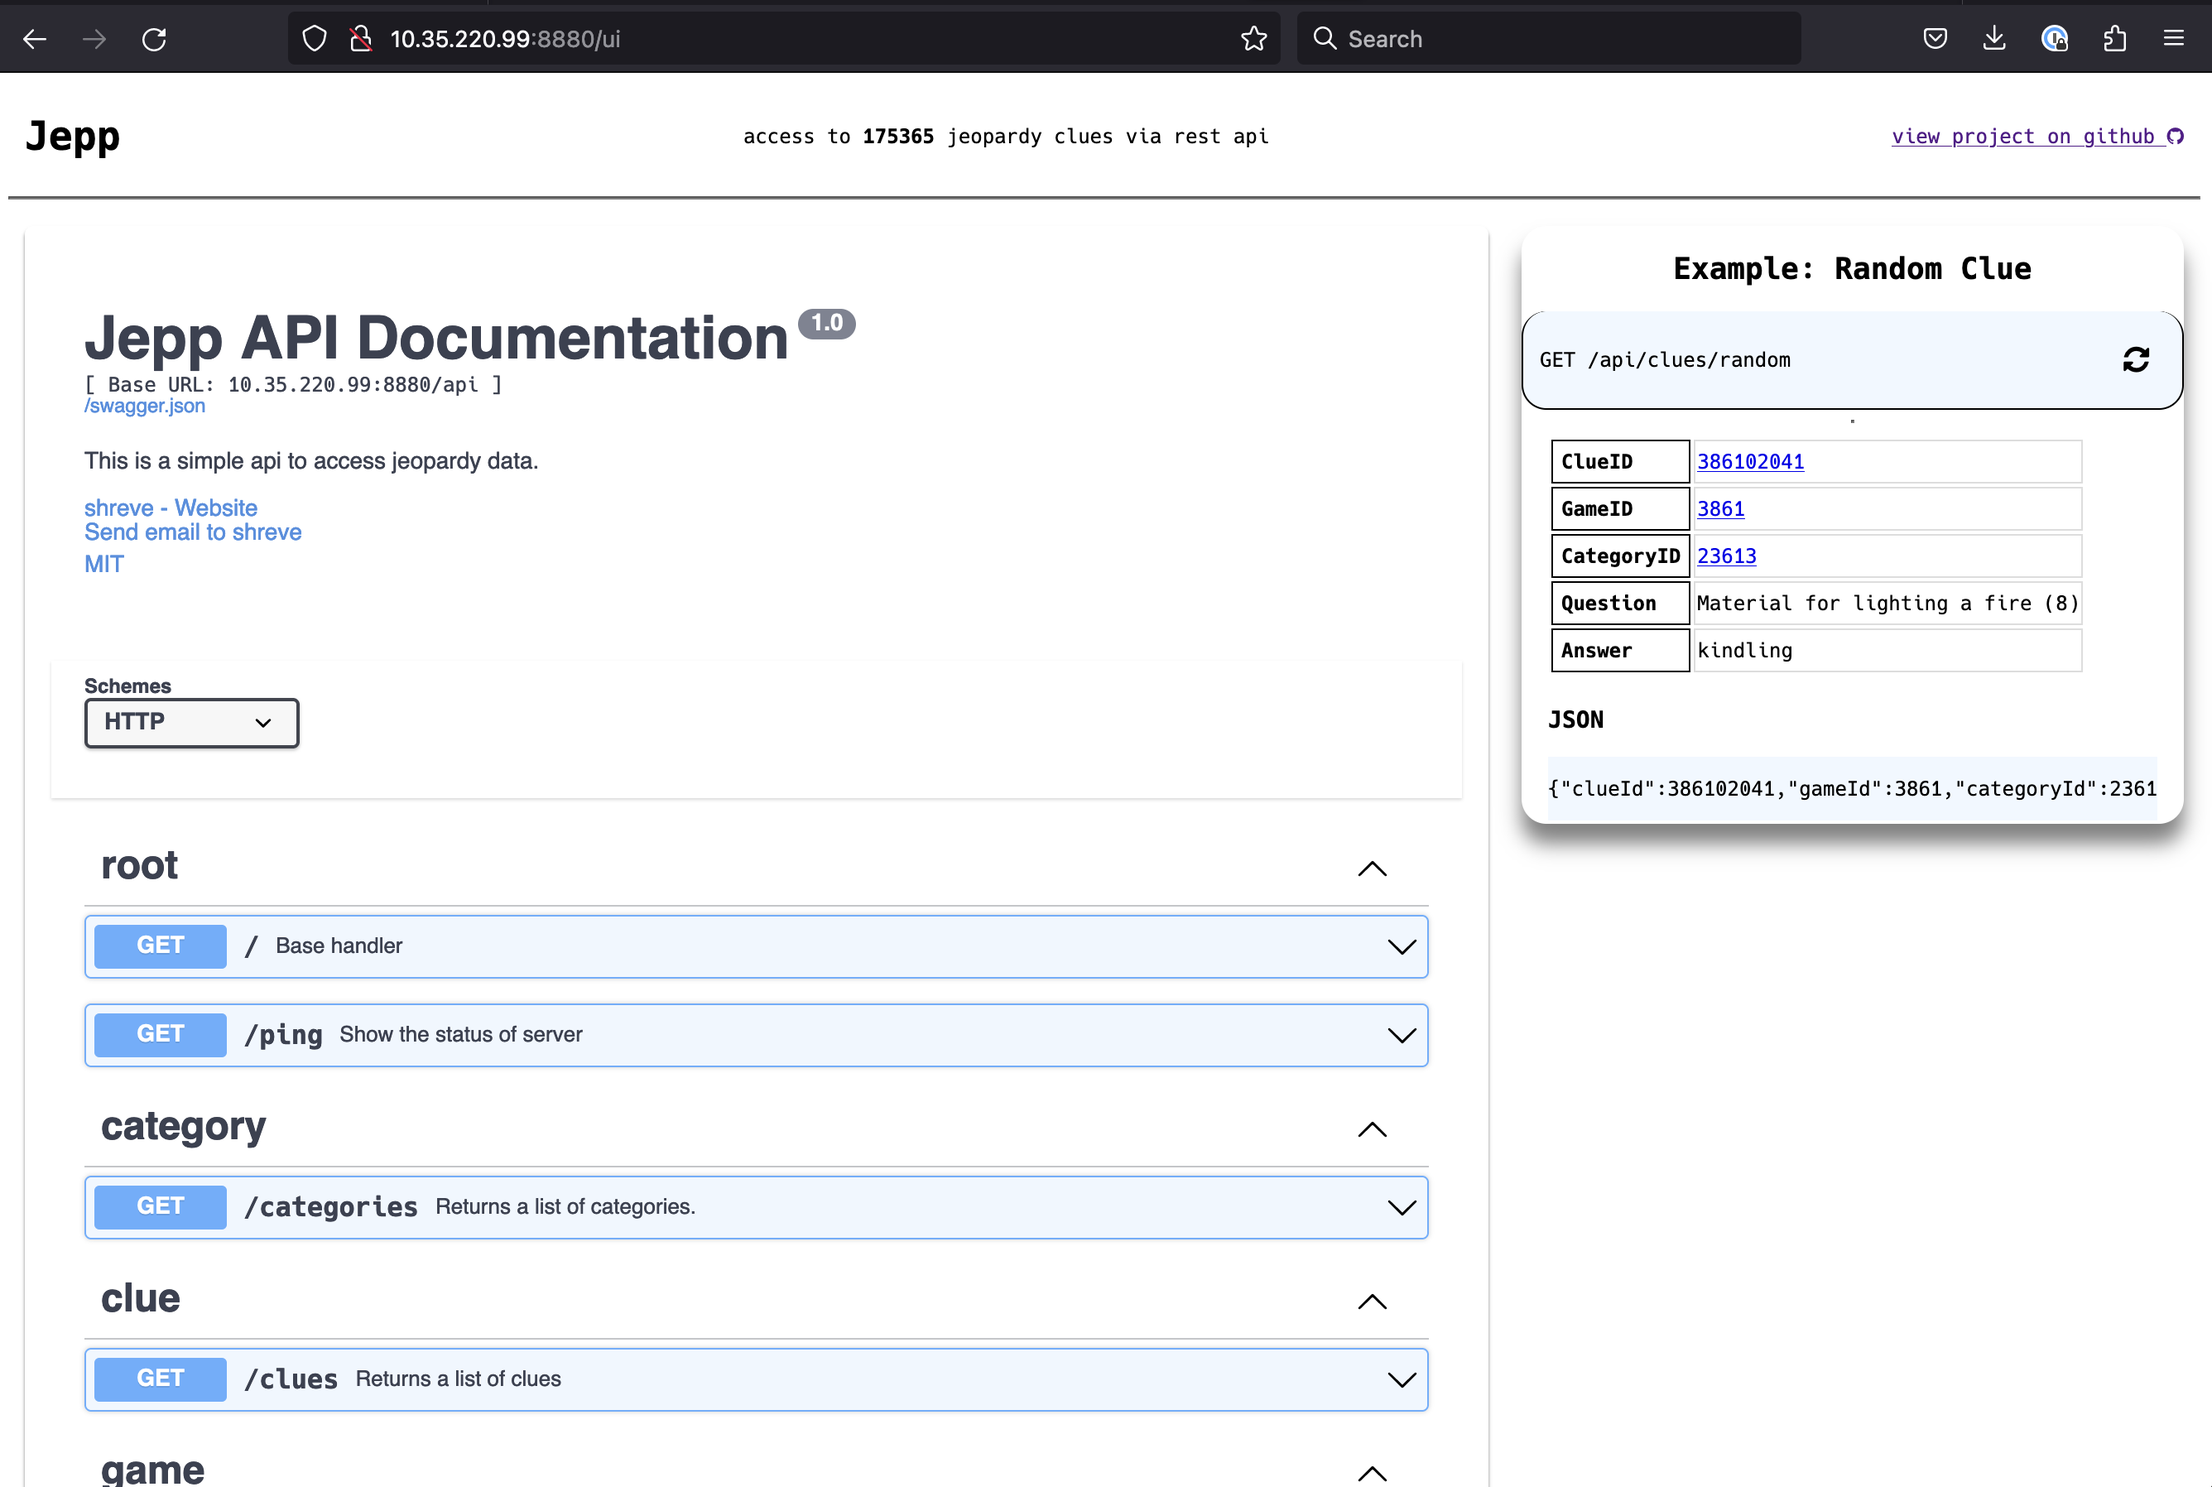
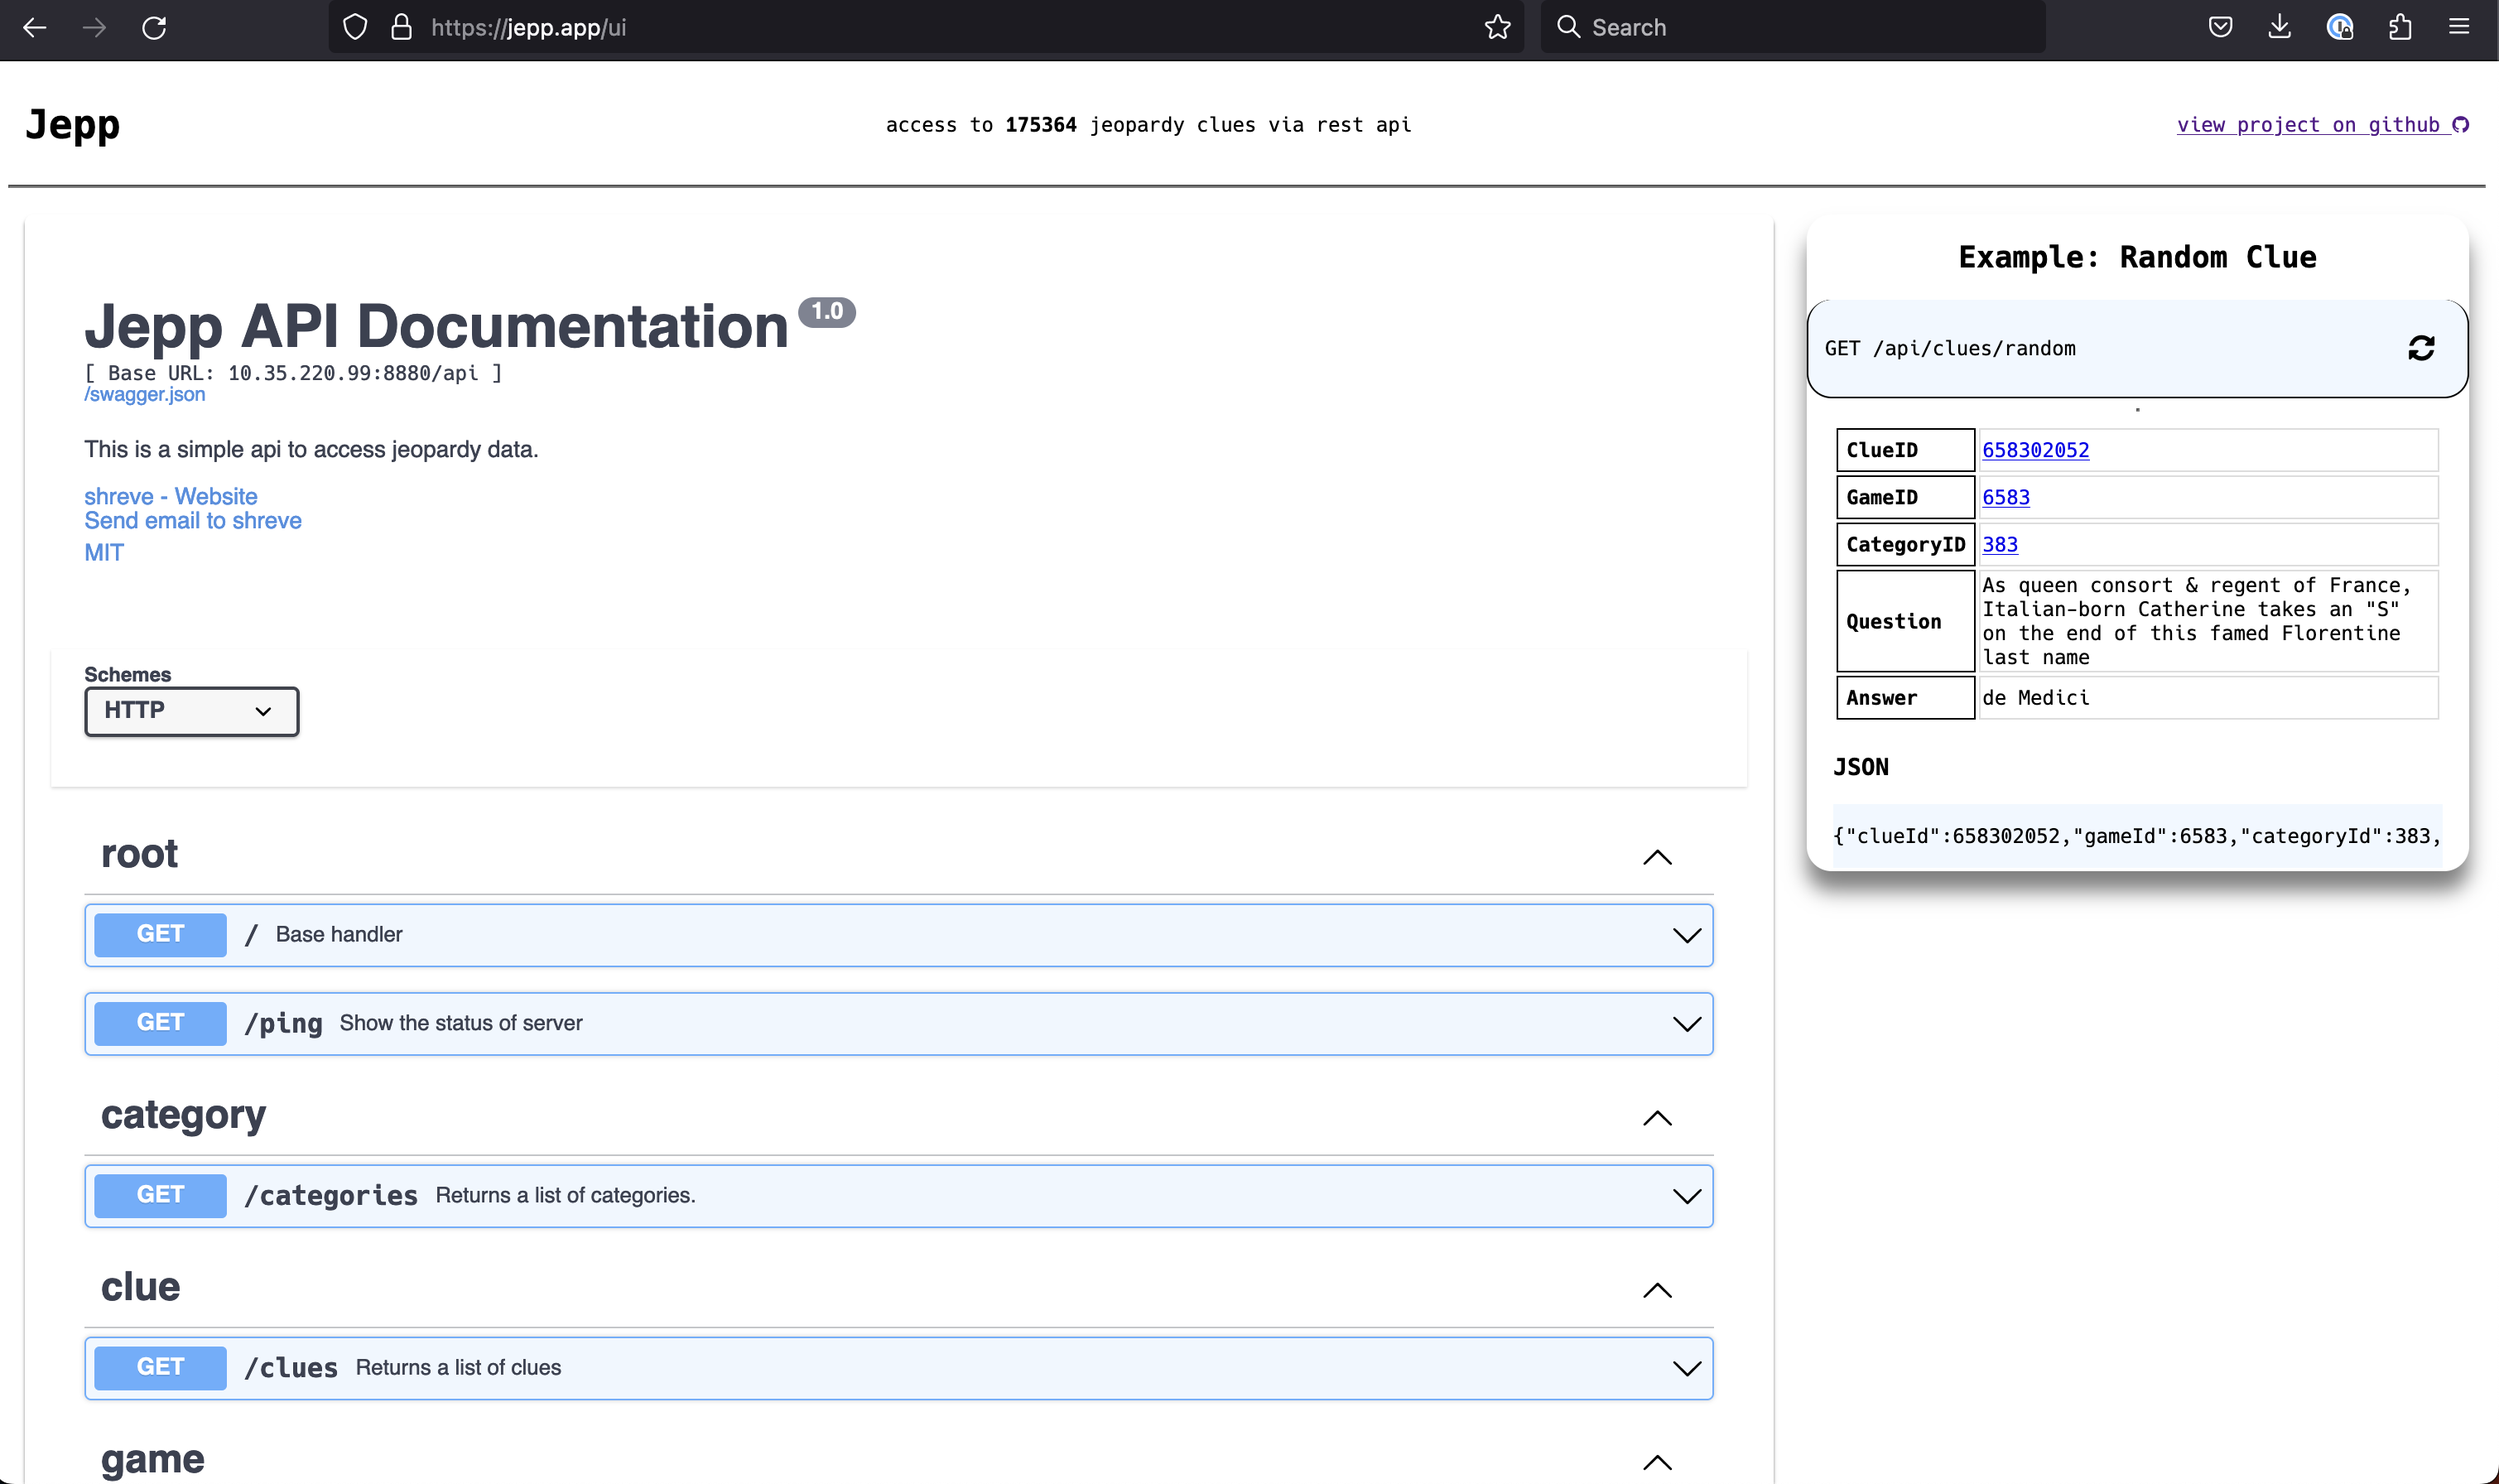
fix: change base ui url

diff --git a/pkg/server/api.go b/pkg/server/api.go
@@ -1,34 +1,32 @@
 package server
 
 import (
+	"net/http"
+
 	"github.com/gin-gonic/gin"
 )
 
 // BaseHandler godoc
 //
-//	@Summary		Base handler
-//	@Description	Show available endpoints
+//	@Summary		Base api handler
+//	@Description	List available endpoints
 //
-//	@Tags			root
+//	@Tags			api
 //	@Accept			*/*
 //	@Produce		json
 //	@Success		200	{object}	map[string]interface{}
-//	@Router			/ [get]
+//	@Router			/api [get]
 func BaseHandler(c *gin.Context) {
-	c.JSON(200, gin.H{
-		"message": "api root",
+	c.JSON(http.StatusOK, gin.H{
 		"available endpoints": []string{
 			"/api",
 			"/api/ping",
 			"/api/games",
-			"/api/games/random",
-			"/api/games/:gameID",
 			"/api/categories",
-			"/api/categories/random",
-			"/api/categories/:categoryID",
 			"/api/clues",
-			"/api/clues/random",
-			"/api/clues/:clueID",
+			"/api/random/clue",
+			"/api/random/category",
+			"/api/random/game",
 		},
 	})
 }
@@ -38,13 +36,13 @@ func BaseHandler(c *gin.Context) {
 //	@Summary		Show the status of server
 //	@Description	Get the status of server
 //
-//	@Tags			root
+//	@Tags			api
 //	@Accept			*/*
 //	@Produce		json
 //	@Success		200	{object}	map[string]interface{}
 //	@Router			/ping [get]
 func PingHandler(c *gin.Context) {
-	c.JSON(200, gin.H{
+	c.JSON(http.StatusOK, gin.H{
 		"message": "pong",
 	})
 }

diff --git a/pkg/server/ui.go b/pkg/server/ui.go
@@ -2,6 +2,7 @@ package server
 
 import (
 	"encoding/json"
+	"net/http"
 
 	mods "github.com/ecshreve/jepp/pkg/models"
 	"github.com/ecshreve/jepp/pkg/utils"
@@ -13,29 +14,30 @@ import (
 func BaseUIHandler(c *gin.Context) {
 	clue, err := mods.GetRandomClue()
 	if err != nil {
-		c.JSON(400, gin.H{"error": "couldn't fetch random clue"})
+		c.JSON(http.StatusBadRequest, gin.H{"error": "couldn't fetch random clue"})
 		return
 	}
 
 	cat, err := mods.GetCategory(clue.CategoryID)
 	if err != nil {
-		c.JSON(400, gin.H{"error": "couldn't fetch category for clue"})
+		c.JSON(http.StatusBadRequest, gin.H{"error": "couldn't fetch category for clue"})
 		return
 	}
 
 	game, err := mods.GetGame(clue.GameID)
 	if err != nil {
-		utils.NewError(c, 400, oops.Wrapf(err, "couldn't fetch game for clue"))
+		utils.NewError(c, http.StatusBadRequest, oops.Wrapf(err, "couldn't fetch game for clue"))
 		return
 	}
 
+	// TODO: validation
 	clueJSON, _ := json.Marshal(clue)
 	numClues, _ := mods.NumClues()
 
 	c.HTML(200, "base.html.tpl", gin.H{
 		"NumClues": numClues,
 		"Clue":     clue,
-		"ClueJSON": string(clueJSON),
+		"ClueJSON": string(clueJSON), // FIX: this is ugly
 		"Game":     game,
 		"Category": cat,
 	})

diff --git a/docs/docs.go b/docs/docs.go
@@ -22,9 +22,9 @@ const docTemplate = `{
     "host": "{{.Host}}",
     "basePath": "{{.BasePath}}",
     "paths": {
-        "/": {
+        "/api": {
             "get": {
-                "description": "Show available endpoints",
+                "description": "List available endpoints",
                 "consumes": [
                     "*/*"
                 ],
@@ -32,9 +32,9 @@ const docTemplate = `{
                     "application/json"
                 ],
                 "tags": [
-                    "root"
+                    "api"
                 ],
-                "summary": "Base handler",
+                "summary": "Base api handler",
                 "responses": {
                     "200": {
                         "description": "OK",
@@ -188,7 +188,7 @@ const docTemplate = `{
                     "application/json"
                 ],
                 "tags": [
-                    "root"
+                    "api"
                 ],
                 "summary": "Show the status of server",
                 "responses": {

diff --git a/pkg/server/server.go b/pkg/server/server.go
@@ -44,7 +44,9 @@ func registerHandlers() *gin.Engine {
 
 	r.LoadHTMLGlob("pkg/server/templates/prod/*")
 
+	r.GET("/", BaseUIHandler)
 	r.GET("/ui", BaseUIHandler)
+
 	// r.GET("/swagger/*any", ginSwagger.WrapHandler(swaggerfiles.Handler))
 
 	api := r.Group("/api")
